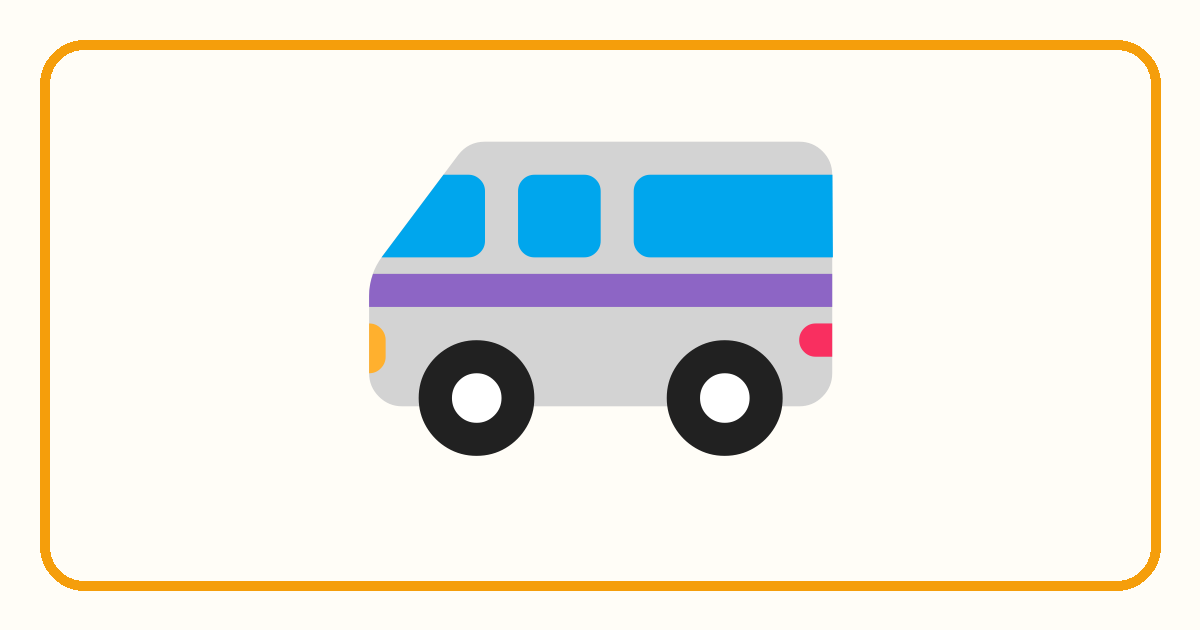
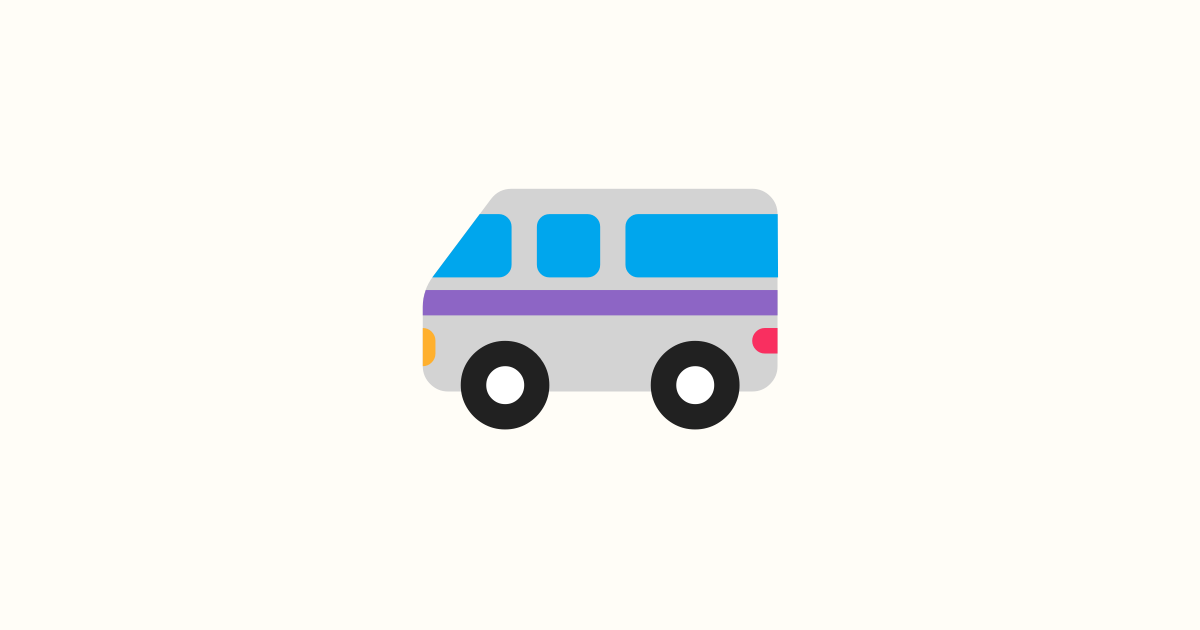
Semplifica icona minivan anteprima

Changed region(s): [[0.3083, 0.2111, 0.7092, 0.7238], [0.0308, 0.0603, 0.9558, 0.9651], [0.9558, 0.0905, 0.9867, 0.9048]]

diff --git a/index.html b/index.html
@@ -114,7 +114,7 @@
                     <span class="block text-xs font-bold uppercase tracking-wide text-amber-700">Un van per la speranza</span>
                 </span>
             </a>
-            <span class="hidden md:block absolute left-1/2 -translate-x-1/2 text-xs font-black text-slate-500 tabular-nums" aria-label="Versione del sito">30-08-26 17:26</span>
+            <span class="hidden md:block absolute left-1/2 -translate-x-1/2 text-xs font-black text-slate-500 tabular-nums" aria-label="Versione del sito">30-08-26 17:34</span>
             <a href="#aiuto" class="inline-flex items-center justify-center gap-2 bg-amberAction hover:bg-amber-600 text-ink px-4 sm:px-5 py-3 rounded-full font-black text-sm shadow-md">
                 <i class="fa-solid fa-heart text-rose-600"></i>
                 <span>Sostieni</span>
